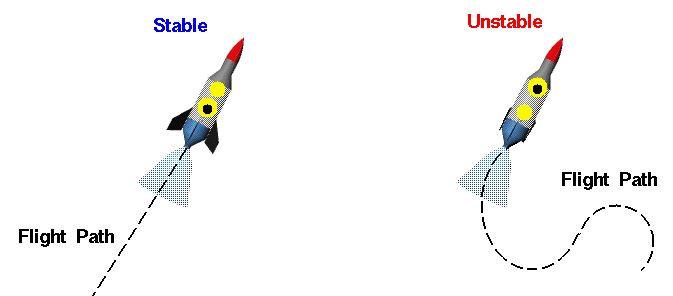
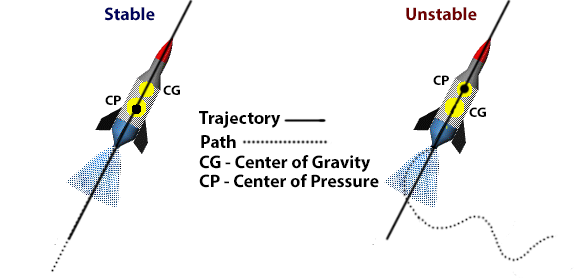
Changing intro things

diff --git a/Report/chapters/Preanalysis&Requirement/RocketAnalyse.tex b/Report/chapters/Preanalysis&Requirement/RocketAnalyse.tex
@@ -1,5 +1,5 @@
 \chapter{Preliminary Analysis of a Rocket}
-The following chapter describes the functionality and structure behind a rocket. The goal is to determine which factors that leads to instability in flight and launch of a rocket. 
+The following chapter describes the functionality,  and structure behind a rocket. The goal is to determine which factors that leads to instability in flight and launch of a rocket. 
 
 
 
@@ -20,7 +20,7 @@ The model is seen cf. figure \ref{fig:RocketStructure}.
 %https://spaceflightsystems.grc.nasa.gov/education/rocket/rockpart.html
 
 \textbf{Payload System}\\
-Most rockets has some form of a payload system. The goal of the payload system is to carry different objects to its wanted destination. The payload can be everything from satellites and astronauts to fireworks depending on the purpose of the rocket. The payload should be considered when looking at the stability of the rocket, because incorrect weight distribution in the rocket, could lead to aerodynamic and structural instability. 
+Most rockets has some form of payload system. The goal of the payload system is to carry different objects to its wanted destination. The payload can be everything from satellites and astronauts to fireworks depending on the purpose of the rocket. The payload should be considered when looking at the stability of the rocket, because incorrect weight distribution in the rocket, could lead to aerodynamic and structural instability. 
 
 
 \textbf{Guidance System}\\
@@ -36,10 +36,38 @@ A solid rocket engine has premixed oxidizer and fuel which becomes the propellan
 
 \textbf{Structural System}\\
 Close to all full scale rockets consist of a structural system. The system consist of the cylindrical body/frame, a nose cone with the payload system and the fins that ensures a stable aerodynamic profile. Though most newer full scales rocket does not rely only on aerodynamics to ensure stability\cite{web:RocketStructure}.
-\bigbreak   
 
-The correct combination of the system modules should ensure a stable flight. \todo{Write something about instability based on the introduction.} 
 
+The correct combination of the system modules and design should ensure a stable flight, but as described cf. section \ref{sec:Introduction} it is shown that most rockets would benefit from a control system to ensure directional stability. Further investigation of the stability of rocket is proceeded. 
+
+
+\subsection{Stability of a Rocket}
+\graphicspath{{figures/"Preanalysis&Requirement"/RocketStability/}}
+A rocket often has a target, either if it is space travelling or just collecting orbit data on earth, but in order to succeed it has to be stable \cite{web:rocketnasa}. The flight direction of a rocket can changed due to disturbances as wind and thrust instabilities.   
+
+Stability can be defined within many categories. In the case of a rocket the stability is considered as the directional and flight stability.  
+
+\autoref{fig:unstableRocketTrajectory} describes a example of a chaotic path for a badly designed rocket. Where the center and gravity and pressure is incorrect placed on the unstable rocket, which make it deviate from its goal trajectory.  
+
+\begin{figure} [htbp]
+	\centering
+	\includegraphics[width=0.7\linewidth]{UnstableRocketTrajectory}
+	\caption{Example of the path for an unstable rocket \cite{web:rocketnasa}.}
+	\label{fig:unstableRocketTrajectory}
+\end{figure}
+
+Center of gravity and pressure is related to the forces acting on the rocket. An analysis of these forces is proceeded. \autoref{fig:RocketForceSummary} describes the different situations a rocket encounters during its flight and describes the forces applied in these cases.
+\begin{figure}[htbp]
+	\centering
+	\includegraphics[width=0.7\linewidth]{ForceSummaryRocket}
+	\caption{Summary of forces applied to a rocket during its flight \cite{web:rocketnasa}.}
+	\label{fig:RocketForceSummary}
+\end{figure}
+\\
+In \autoref{fig:RocketForceSummary} two points can be seen on the rockets. One is CP the Center of Pressure where the lift and the drag force apply \cite{web:rocketnasa} to a rocket. The other one is CG the Center of Gravity, which is the point which the rocket rotate around \cite{web:rocketnasa}. Due to this characteristics the torque applied by the lift and the drag is dependent of the relative positioning between the CG and the CP. Since a rocket tilts due to a torque applied by external forces such as the wind, then lift and the drag has to be oriented so it counters these forces. In order to do so the CG has to be above the CP \cite{web:rocketnasa}.
+This means depending of the position of the CP compared to the CG the rocket flight will be either stable or unstable. That is why in simpler rockets without any control system, its design is made so that CP is indeed above CG.
+
+This preliminary analysis makes gives the possibility to further examine on how to control the stability of a rocket.
 %All based on https://spaceflightsystems.grc.nasa.gov/education/rocket/rockpart.html
 
 \input{chapters/"Preanalysis&Requirement"/RocketStability.tex}

diff --git a/Report/chapters/Preanalysis&Requirement/RocketStability.tex b/Report/chapters/Preanalysis&Requirement/RocketStability.tex
@@ -1,26 +1,14 @@
-\section{Stability of a Rocket}
-\graphicspath{{figures/"Preanalysis&Requirement"/RocketStability/}}
-A rocket in order to fly straight has to be stable \cite{web:rocketnasa}. \autoref{fig:unstableRocketTrajectory} gives a good example of chaotic trajectory due to unstable design.
-
+\section{Controlling a Rockets Stability}
+The previous design method does not provide a perfectly stable attitude control. Indeed to have such precise an active control system is necessary. Full scale rockets use the thrusting force to achieve such control. In order to do so most of them operate with the gimbaled thrust method. It consists of steering the engine's nozzle to get the thrusting force in right incidence, an example is seen cf. figure \ref{fig:RocketGimbal}. 
 \begin{figure} [htbp]
 	\centering
-	\includegraphics[width=1\linewidth]{UnstableRocketTrajectory}
-	\caption{Example of trajectory for an unstable rocket \cite{web:rocketnasa}.}
-	\label{fig:unstableRocketTrajectory}
+	\includegraphics[width=0.8\linewidth]{RocketGimbal}
+	\caption{Example of gimballing a rocket nozzle \cite{web:rocketnasa}.}
+	\label{fig:RocketGimbal}
 \end{figure}
 
-\subsection{Factors of instability}
-To see how a stable rocket has to be designed an analysis of the force applying to the rocket needs to be done. \autoref{fig:RocketForceSummary} shows the different situations a rocket encounters during its flight and describes the forces applied in these cases.
+Where a torque is applied to create a rotation around the rockets center of gravity. The thrust direction is relative to the position of the center of gravity.  This should compensate for direction deviations from the rockets center line or trajectory, and keep the rocket stable.    	
 
-\begin{figure}[htbp]
-	\centering
-	\includegraphics[width=1\linewidth]{ForceSummaryRocket}
-	\caption{Summary of forces applied to a rocket during its flight \cite{web:rocketnasa}.}
-	\label{fig:RocketForceSummary}
-\end{figure}
+However Space X introduces a new propulsion method by using multiple small engines instead of a big one. With this method the thrusting force direction can be instead controlled by the output of each engine. For smaller rockets orientable fins are used. By changing the orientations of the fins the drag and the lift is changed and so is the attitude of the rocket.
 
-In \autoref{fig:RocketForceSummary} two points can be seen on the rockets. The first one CP Center of Pressure is where the  lift and the drag force apply \cite{web:rocketnasa}. The second one is CG Center of Gravity, it is the point which the rocket rotate around \cite{web:rocketnasa}. Due to this characteristics the torque applied by the lift and the drag is dependent of the relative positioning between the CG and the CP. Since a rocket tilts due to a torque applied by external forces such as the wind, the lift and the drag has to be oriented so it counters these forces. In order to do so the CP has to be above the CG \cite{web:rocketnasa}.
-This means depending of the position of the CP compared to the CG the rocket flight will be either stable or unstable. That is why in simple rocket without any control system has its design done so that CP is indeed above CG.
 
-\subsection{Attitude controller}
-The previous design method does not provide a perfectly stable attitude control. Indeed to have such precise an active control system is necessary. Full scale rockets use the thrusting force to achieve such control. In order to do so most of them operate with the gimbaled thrust method. It consists of steering the engine's nozzle to get the thrusting force in right incidence \cite{web:rocketnasa}. However Space X introduces a new propulsion method by using multiple small engines instead of a big one. With this method the thrusting force direction can be instead controlled by the output of each engine. For smaller rockets orientable fins are used. By changing the orientations of the fins the drag and the lift is changed and so is the attitude of the rocket.

diff --git a/Report/chapters/Preanalysis&Requirement/SimilarSystems.tex b/Report/chapters/Preanalysis&Requirement/SimilarSystems.tex
@@ -1,6 +1,9 @@
-\section{Systems with known instability problems}
+\section{Systems with Known Instability Problems}
 \graphicspath{{figures/"Preanalysis&Requirement"/SimilarSystems/}}
-In order to stabilize the rocket in flight, a controller must be designed to stabilize the vertical position during flight.The possibility of damaging the rocket or the controller needs to be countered by the efficiency of the control system. Experimenting such a system during flight is expensive and presents nonnegligible hazards.
+\todo{Decision needs to be made, considering if this chapter should lead to modelling both the inverse pendulum and a the rocket, and conclude that controlling them is the same - Mathias}
+
+
+In order to stabilize the rocket in flight, a controller must be designed to stabilize the rocket vertical direction during flight. The possibility of damaging the rocket or the controller needs to be countered by the efficiency of the control system. Experimenting such a system during flight is expensive and presents nonnegligible hazards.
 Is there a system that has similar instability properties of rockets, and presents fewer restrictions to experiment?
 
 An inverted pendulum objective is to stabilize a stick whose center of mass is above pivot point. The process is done using a horizontal force, resulting in a first degree of freedom rotation, as found in a rocket system. An example of an inverted pendulum would be humans. Adjustments are needed to maintain balance when standing, walking, or running. 

diff --git a/Report/chapters/Preanalysis&Requirement/Introduction.tex b/Report/chapters/Preanalysis&Requirement/Introduction.tex
@@ -1,4 +1,4 @@
-\chapter{Introduction}\todo{Should be revised - Mathias}
+\chapter{Introduction}\label{sec:Introduction}\todo{Should be revised - Mathias}
 This project deals with the design of a stabilization system based on modelling of a rocket.
 %within the atmosphere of Earth. 
 
